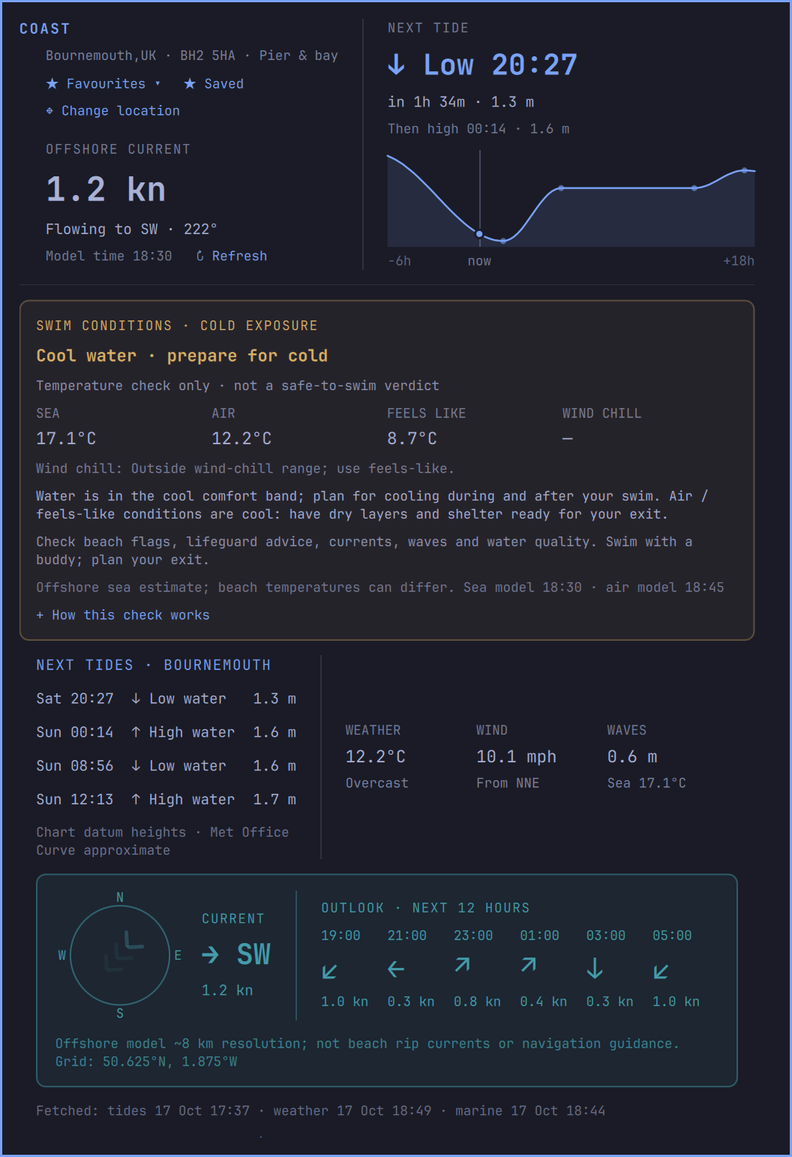
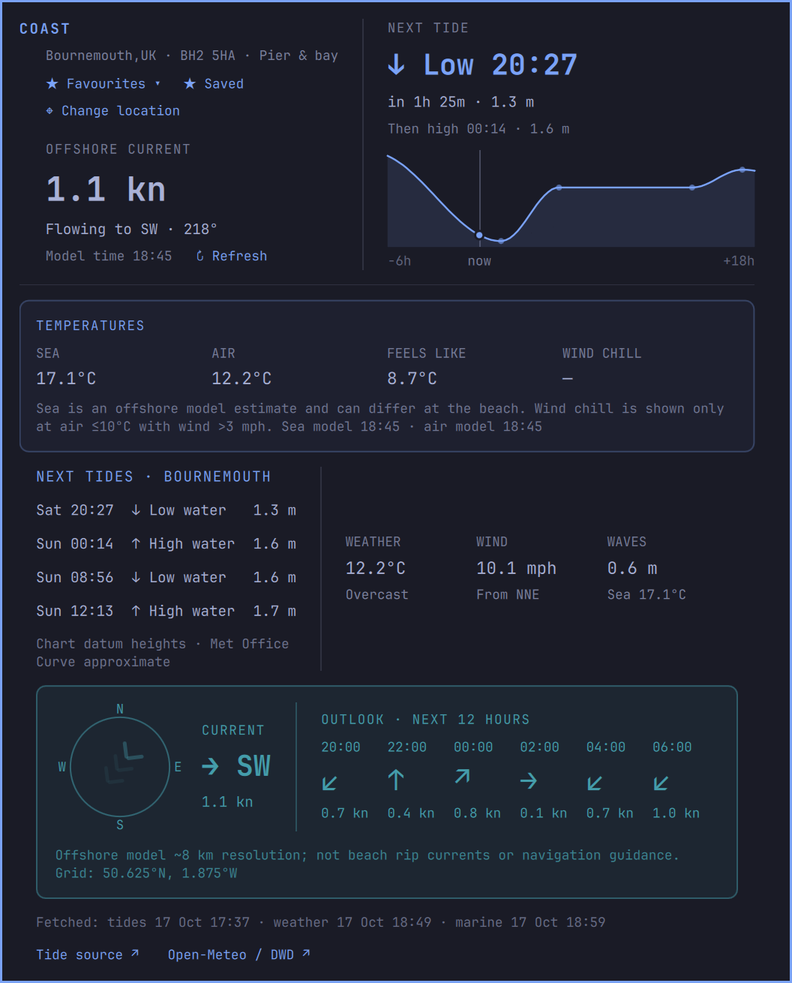
Replace the swim check with plain temperature readings
The swim box gave verdicts and advice ("Cool water · prepare for cold",
cold-water thresholds, beach-safety reminders). Show sea, air, feels-like
and wind chill as plain readings instead, with a short data note. The
previous version is tagged v1.1-swim-check.

Claude-Session: https://claude.ai/code/session_01FepXXnqDc28xYyEWRcfLL6

diff --git a/Widget.qml b/Widget.qml
@@ -51,10 +51,9 @@ Panel {
     readonly property var marine: report.marine || ({})
     readonly property var weather: report.weather || ({})
     readonly property var location: report.location || ({})
-    readonly property var swim: report.swim || ({})
+    readonly property var temps: report.temperatures || ({})
     // Below ~0.3 kn the stream is turning; the modelled direction swings and means little.
     readonly property bool slack: typeof marine.speed === "number" && marine.speed < 0.3
-    readonly property color swimColor: swim.level === "cold" ? Color.urgent : (swim.level === "caution" ? "#d9ae65" : Color.accent)
     readonly property color ink: Color.popups.text
     // Sea colour for the current compass: the theme's cyan, read from its colors.toml.
     property color sea: "#449dab"
@@ -177,7 +176,7 @@ Panel {
         anchors.fill: parent
         bar: root.bar
         text: ""
-        tooltipText: (root.location.name || "Coast") + " · " + root.temperature(root.weather.temperature_2m) + " · " + root.arrow(root.marine.direction) + " " + root.value(root.marine.speed, " kn") + (root.swim.title ? "\n" + root.swim.title : "") + (root.report.nextTide ? "\nNext " + root.report.nextTide.kind + " tide " + root.report.nextTide.label : "")
+        tooltipText: (root.location.name || "Coast") + " · " + root.temperature(root.weather.temperature_2m) + " · " + root.arrow(root.marine.direction) + " " + root.value(root.marine.speed, " kn") + (root.report.nextTide ? "\nNext " + root.report.nextTide.kind + " tide " + root.report.nextTide.label : "")
         onPressed: function(b) { if (b === Qt.MiddleButton) root.refresh(); else root.toggle() }
     }
     KeyboardPanel {
@@ -540,36 +539,27 @@ Panel {
                         Label { width: parent.width; wrapMode: Text.WordWrap; text: "Choose a coastal place. Offshore coverage varies; tide times need a supported local source. Search: Open-Meteo / GeoNames."; font.pixelSize: Style.font.bodySmall; opacity: 0.6 }
                         Rectangle { width: parent.width; height: 1; color: root.ink; opacity: 0.15 }
                     }
+                    // Plain temperature readings; no advice or verdicts.
                     Rectangle {
                         width: parent.width
-                        height: swimContent.implicitHeight + Style.space(28)
+                        height: tempContent.implicitHeight + Style.space(28)
                         radius: Style.space(8)
-                        color: Qt.rgba(root.swimColor.r, root.swimColor.g, root.swimColor.b, 0.06)
-                        border.color: Qt.rgba(root.swimColor.r, root.swimColor.g, root.swimColor.b, 0.35)
+                        color: Qt.rgba(Color.accent.r, Color.accent.g, Color.accent.b, 0.04)
+                        border.color: Qt.rgba(Color.accent.r, Color.accent.g, Color.accent.b, 0.3)
                         Column {
-                            id: swimContent
+                            id: tempContent
                             x: Style.space(14); y: Style.space(14)
                             width: parent.width - Style.space(28)
                             spacing: Style.space(8)
-                            Row {
-                                width: parent.width
-                                spacing: Style.space(12)
-                                Column {
-                                    width: parent.width
-                                    spacing: Style.space(8)
-                                    Label { text: "SWIM CONDITIONS · COLD EXPOSURE"; font.pixelSize: Style.font.bodySmall; font.letterSpacing: 1; color: root.swimColor }
-                                    Label { width: parent.width; wrapMode: Text.WordWrap; text: root.failure ? "Conditions unavailable" : (root.swim.title || "Checking temperatures…"); font.pixelSize: Style.font.title; font.bold: true; color: root.swimColor }
-                                    Label { width: parent.width; wrapMode: Text.WordWrap; text: root.swim.scope || "Temperature check only · not a safe-to-swim verdict"; font.pixelSize: Style.font.bodySmall; opacity: 0.8 }
-                                }
-                            }
+                            Label { text: "TEMPERATURES"; font.pixelSize: Style.font.bodySmall; font.letterSpacing: 1; color: Color.accent }
                             Row {
                                 width: parent.width
                                 Repeater {
                                     model: [
-                                        {label: "SEA", value: root.swim.sea},
-                                        {label: "AIR", value: root.swim.air},
-                                        {label: "FEELS LIKE", value: root.swim.feels},
-                                        {label: "WIND CHILL", value: root.swim.windChill}
+                                        {label: "SEA", value: root.temps.sea},
+                                        {label: "AIR", value: root.temps.air},
+                                        {label: "FEELS LIKE", value: root.temps.feels},
+                                        {label: "WIND CHILL", value: root.temps.windChill}
                                     ]
                                     Column {
                                         required property var modelData
@@ -580,34 +570,14 @@ Panel {
                                     }
                                 }
                             }
-                            Label { width: parent.width; wrapMode: Text.WordWrap; text: "Wind chill: " + (root.swim.windChillNote || "Unavailable."); font.pixelSize: Style.font.bodySmall; opacity: 0.65 }
-                            Label { width: parent.width; wrapMode: Text.WordWrap; text: root.failure || (root.swim.reasons || []).join(" "); font.pixelSize: Style.font.bodySmall }
-                            Label { width: parent.width; wrapMode: Text.WordWrap; text: root.swim.checks || "Check local beach advice before swimming."; font.pixelSize: Style.font.bodySmall; opacity: 0.8 }
-                            Label { width: parent.width; wrapMode: Text.WordWrap; text: "Offshore sea estimate; beach temperatures can differ. " + (root.swim.times || ""); font.pixelSize: Style.font.bodySmall; opacity: 0.6 }
                             Label {
-                                text: methodDetails.visible ? "− How this check works" : "+ How this check works"
-                                font.pixelSize: Style.font.bodySmall; color: Color.accent
-                                MouseArea { anchors.fill: parent; cursorShape: Qt.PointingHandCursor; onClicked: methodDetails.visible = !methodDetails.visible }
-                            }
-                            Column {
-                                id: methodDetails
-                                visible: false
-                                width: parent.width
-                                spacing: Style.space(6)
-                                Label { width: parent.width; wrapMode: Text.WordWrap; text: (root.swim.method || "") + " Feels-like combines weather effects; wind chill applies only at air ≤10°C and wind >3 mph. Neither models cooling of a wet swimmer. No age, medical or wetsuit safety adjustment is made."; font.pixelSize: Style.font.bodySmall; opacity: 0.75 }
-                                Row {
-                                    spacing: Style.space(24)
-                                    Label { text: "RNLI swimming advice ↗"; font.pixelSize: Style.font.bodySmall; color: Color.accent
-                                        MouseArea { anchors.fill: parent; cursorShape: Qt.PointingHandCursor; onClicked: Qt.openUrlExternally("https://rnli.org/water-safety/choose-your-activity/open-water-swimming") }
-                                    }
-                                    Label { text: "Wind chill method ↗"; font.pixelSize: Style.font.bodySmall; color: Color.accent
-                                        MouseArea { anchors.fill: parent; cursorShape: Qt.PointingHandCursor; onClicked: Qt.openUrlExternally("https://www.weather.gov/safety/cold-wind-chill-chart") }
-                                    }
-                                }
+                                width: parent.width; wrapMode: Text.WordWrap
+                                text: root.failure || ("Sea is an offshore model estimate and can differ at the beach. Wind chill is shown only at air ≤10°C with wind >3 mph. " + (root.temps.times || ""))
+                                font.pixelSize: Style.font.bodySmall; opacity: 0.6
                             }
                         }
                     }
-                    // Inset to line up with the text inside the swim box, slightly narrower than the box.
+                    // Inset to line up with the text inside the temperature box, slightly narrower than the box.
                     Column {
                         x: Style.space(14)
                         width: parent.width - Style.space(28)

diff --git a/test_temperatures.py b/test_temperatures.py
@@ -4,30 +4,21 @@ import tempfile
 import unittest
 from coast import build_report, source_urls
 from location import load_location, DEFAULT_LOCATION
-from swim import assess, wind_chill
+from temperatures import readings, wind_chill
 
 
-class SwimTests(unittest.TestCase):
-    def test_warm_air_never_offsets_cold_sea(self):
-        for sea in (-1, 10, 14.9, 15):
-            self.assertEqual(assess(sea, 30, 32, 5)['level'], 'cold')
-        self.assertEqual(assess(15.1, 30, 32, 5)['level'], 'caution')
-        self.assertEqual(assess(20, 20, 20, 5)['level'], 'neutral')
+class TemperatureTests(unittest.TestCase):
+    def test_readings_are_plain_values(self):
+        result = readings(17.1, 12.8, 9.6, 8.3)
+        self.assertEqual((result['sea'], result['air'], result['feels']), (17.1, 12.8, 9.6))
+        self.assertIsNone(result['windChill'])
+        self.assertEqual(set(result), {'sea', 'air', 'feels', 'windChill'})
 
-    def test_air_and_feels_like_independently_warn(self):
-        self.assertEqual(assess(24, 14, 18, 5)['level'], 'caution')
-        self.assertEqual(assess(24, 18, 14, 10)['level'], 'caution')
-
-    def test_missing_invalid_and_zero_inputs(self):
+    def test_invalid_inputs_become_none(self):
         for invalid in (None, float('nan'), float('inf'), True, '17', 100):
-            result = assess(invalid, 20, 20, 5)
-            self.assertEqual(result['level'], 'unknown')
-            self.assertFalse(result['complete'])
-        self.assertTrue(assess(0, 0, 0, 0)['complete'])
-        result = assess(10, None, None, None)
-        self.assertEqual(result['level'], 'cold')
-        self.assertFalse(result['complete'])
-        self.assertEqual(assess(20, 20, None, 5)['level'], 'unknown')
+            self.assertIsNone(readings(invalid, 20, 20, 5)['sea'])
+        self.assertEqual(readings(0, 0, 0, 0)['sea'], 0)
+        self.assertIsNone(readings(10, None, None, 20)['windChill'])
 
     def test_wind_chill_known_value_and_domain(self):
         # NWS chart rounds to -19 F; allow its half-degree F rounding.
@@ -37,15 +28,15 @@ class SwimTests(unittest.TestCase):
         self.assertIsNotNone(wind_chill(10, 3.1))
         self.assertIsNone(wind_chill(None, 10))
 
-    def test_stale_and_unknown_units_cannot_produce_complete_assessment(self):
+    def test_stale_and_unknown_units_are_withheld(self):
         empty = {'data': None, 'fetched': None, 'error': None}
         weather = {'data': {'current': {'time': 10000, 'temperature_2m': 20, 'apparent_temperature': 19, 'wind_speed_10m': 5}, 'current_units': {'temperature_2m': '°C', 'apparent_temperature': '°C', 'wind_speed_10m': 'mp/h'}}, 'fetched': 10000, 'error': None}
         marine = {'data': {'current': {'time': 10000, 'sea_surface_temperature': 21}, 'current_units': {'sea_surface_temperature': '°C'}}, 'fetched': 10000, 'error': None}
         sources = [empty, weather, marine]
-        self.assertTrue(build_report(sources, now=10000)['swim']['complete'])
-        self.assertFalse(build_report(sources, now=18000)['swim']['complete'])
+        self.assertEqual(build_report(sources, now=10000)['temperatures']['sea'], 21)
+        self.assertIsNone(build_report(sources, now=18000)['temperatures']['sea'])
         marine['data']['current_units']['sea_surface_temperature'] = '°F'
-        self.assertEqual(build_report(sources, now=10000)['swim']['level'], 'unknown')
+        self.assertIsNone(build_report(sources, now=10000)['temperatures']['sea'])
 
     def test_location_isolation_and_validation(self):
         with tempfile.TemporaryDirectory() as folder:

diff --git a/coast.py b/coast.py
@@ -15,7 +15,7 @@ import urllib.request
 from urllib.parse import urlencode
 from zoneinfo import ZoneInfo
 from location import DEFAULT_LOCATION, load_location
-from swim import assess
+from temperatures import readings
 
 ZONE = ZoneInfo("Europe/London")
 CACHE = Path(os.environ.get("XDG_CACHE_HOME", str(Path.home() / ".cache"))) / "omarchy-coast"
@@ -153,15 +153,15 @@ def build_report(sources, now=None, location=None):
     nearby = distance is None or distance <= 30
     if not nearby:
         m = {}
-    # Require explicit units before feeding safety-related temperature screening.
+    # Only trust temperature and wind readings whose units are confirmed.
     wu = (weather["data"] or {}).get("current_units", {})
     mu = md.get("current_units", {})
     sea = m.get("sea_surface_temperature") if mu.get("sea_surface_temperature") == "°C" else None
     air = w.get("temperature_2m") if wu.get("temperature_2m") == "°C" else None
     feels = w.get("apparent_temperature") if wu.get("apparent_temperature") == "°C" else None
     wind = w.get("wind_speed_10m") if wu.get("wind_speed_10m") in ("mp/h", "mph") else None
-    swim = assess(sea, air, feels, wind)
-    swim["times"] = "Sea model " + (at(m["time"]) if m else "—") + " · air model " + (at(w["time"]) if w else "—")
+    temperatures = readings(sea, air, feels, wind)
+    temperatures["times"] = "Sea model " + (at(m["time"]) if m else "—") + " · air model " + (at(w["time"]) if w else "—")
     speed = knots(m.get("ocean_current_velocity"), md.get("current_units", {}).get("ocean_current_velocity"))
     direction = m.get("ocean_current_direction") if speed is not None and speed > 0 else None
     hourly = md.get("hourly", {}) if nearby else {}
@@ -177,7 +177,7 @@ def build_report(sources, now=None, location=None):
     if not nearby: warnings.append("No nearby marine grid: offshore readings withheld (more than 30 km from this location)")
     if not any(e["time"] >= now for e in events): warnings.append("No upcoming tide times available")
     return {
-        "updated": at(now), "tides": events[:12], "location": location, "swim": swim,
+        "updated": at(now), "tides": events[:12], "location": location, "temperatures": temperatures,
         "nextTide": dict(upcoming[0], due=countdown(upcoming[0]["time"] - now)) if upcoming else None,
         "followingTide": upcoming[1] if len(upcoming) > 1 else None,
         "tideCurve": tide_curve(tides["data"] or [], now),

diff --git a/temperatures.py b/temperatures.py
@@ -1,0 +1,26 @@
+"""Plain temperature readings: sea, air, feels-like and wind chill. No advice or verdicts.
+
+Inputs are Celsius and wind is mph. Missing, non-numeric or out-of-range values
+become None rather than being guessed.
+"""
+import math
+
+
+def valid(value, low, high):
+    return isinstance(value, (int, float)) and not isinstance(value, bool) and math.isfinite(value) and low <= value <= high
+
+
+def wind_chill(air, wind):
+    """NWS exposed-skin index; only defined at <=10 C and >3 mph."""
+    if not valid(air, -90, 60) or not valid(wind, 0, 250) or air > 10 or wind <= 3:
+        return None
+    fahrenheit = air * 1.8 + 32
+    chill = 35.74 + 0.6215 * fahrenheit - 35.75 * wind ** 0.16 + 0.4275 * fahrenheit * wind ** 0.16
+    return round((chill - 32) / 1.8, 1)
+
+
+def readings(sea, air, feels, wind):
+    air = air if valid(air, -90, 60) else None
+    return {"sea": sea if valid(sea, -3, 45) else None, "air": air,
+            "feels": feels if valid(feels, -110, 80) else None,
+            "windChill": wind_chill(air, wind if valid(wind, 0, 250) else None)}

diff --git a/test_location.py b/test_location.py
@@ -87,7 +87,7 @@ class LocationTests(unittest.TestCase):
         report = build_report([empty,empty,marine],now=10000,location=location)
         self.assertIsNone(report['marine']['temperature'])
         self.assertIsNone(report['marine']['direction'])
-        self.assertFalse(report['swim']['complete'])
+        self.assertIsNone(report['temperatures']['sea'])
         self.assertTrue(any('No nearby marine' in w for w in report['warnings']))
 
     def test_country_abbreviations(self):

diff --git a/README.md b/README.md
@@ -10,8 +10,8 @@ Omarchy theme automatically.
 ![The Coast panel](docs/screenshot.png)
 
 > **Limitations.** Currents and sea temperature are a coarse offshore model
-> (~8 km), not beach conditions or navigation guidance. The swim box checks cold
-> exposure only and is never a "safe to swim" verdict. Tide times currently come
+> (~8 km), not beach conditions or navigation guidance. Coast shows readings
+> only and gives no swimming or safety advice. Tide times currently come
 > from one Met Office page (Bournemouth); other locations show no tides yet.
 > See [Data and accuracy](#data-and-accuracy).
 
@@ -45,7 +45,8 @@ Everything fits on screen at once, top to bottom:
    - Right, **NEXT TIDE**: the next high or low, a countdown and height, the tide
      after it, and a chart of the water level from 6 hours ago to 18 hours ahead
      with a marker for now.
-2. **Swim conditions · cold exposure.** A boxed temperature check (see below).
+2. **Temperatures.** Sea, air, feels-like and wind chill as plain readings
+   (see below).
 3. **Next tides and weather.** The next four highs and lows as a compact table,
    then a divider, then **weather**, **wind** and **waves**.
 4. **Current.** A box in the theme's sea colour combining the compass (the
@@ -85,22 +86,20 @@ Sources:
 - https://open-meteo.com/en/docs
 - https://open-meteo.com/en/docs/marine-weather-api (Open-Meteo / DWD attribution)
 
-## Swim conditions
+## Temperatures
 
-The swim box screens **cold exposure**, never whether swimming is safe.
-It shows sea, air, apparent (feels-like) temperature and the NWS wind-chill index
-where applicable (air ≤10°C, wind >3 mph). Neither air index estimates cooling
-of a wet swimmer. No swim duration, health, age or wetsuit safety score is given.
-No personal health data is collected or stored.
+The temperature box shows four readings and nothing else: sea surface
+temperature (offshore marine model), air temperature, apparent (feels-like)
+temperature and the NWS wind-chill index. Wind chill is only defined at air
+≤10°C with wind >3 mph, so it shows "—" otherwise. Coast gives no swimming,
+health or safety advice and makes no judgement about the readings.
 
-The conservative cold-water alert uses ≤15°C. Water below 20°C or air / feels-like
-below 15°C produces a cool-conditions reminder: these are product comfort bands,
-not validated safety thresholds. Warmer air never offsets cold water. All
-remaining complete readings are labelled “Milder temperatures”, never “safe”.
-Missing, invalid or >2-hour-old conditions yield an incomplete check, retaining
-any known cold-water warning. Offshore sea estimates may differ from the beach.
-Flags, local advice, waves, currents, water quality and personal suitability are
-not assessed. Method and source links are available in the panel.
+Readings are withheld (shown as "—") when they are missing, out of range, older
+than 2 hours, or come back from the API in unexpected units. The offshore sea
+estimate can differ from the temperature at the beach. The box notes when each
+model reading is from.
+
+- https://www.weather.gov/safety/cold-wind-chill-chart (wind-chill formula)
 
 ## Locations
 
@@ -156,10 +155,6 @@ localisation and broader unit preferences remain future work. Returned marine
 grid cells more than 30 km from the selected location are withheld; this is a
 coverage guard, not a guarantee of beach-level accuracy.
 
-Before public distribution, obtain water-safety and jurisdiction-specific legal
-review of the claims and method. Avoid medical profiling and “safe to swim”
-clearance. Adding a disclaimer alone does not validate a safety feature.
-
 ## Favourites
 
 Use **☆ Save** beside the location controls to favourite the current coast;
@@ -177,7 +172,7 @@ an explicitly empty favourites list stays empty. State writes remain atomic.
   rendered on its own to check orientation.
 - `coast.py`: fetches, caches and combines the feeds into one report.
 - `location.py`: location search, recents, favourites and saved state.
-- `swim.py`: the cold-exposure check.
+- `temperatures.py`: validates the temperature readings and works out wind chill.
 
 ## Development
 
